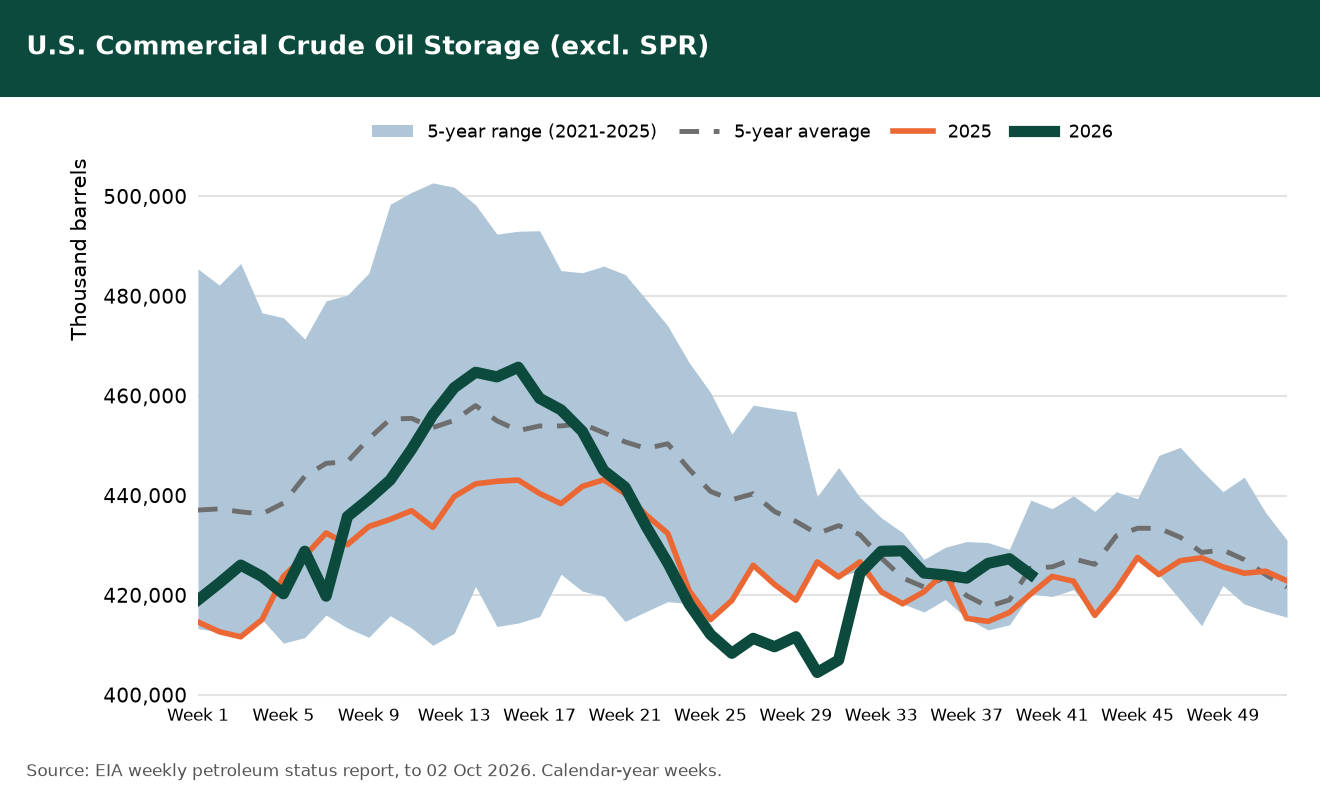
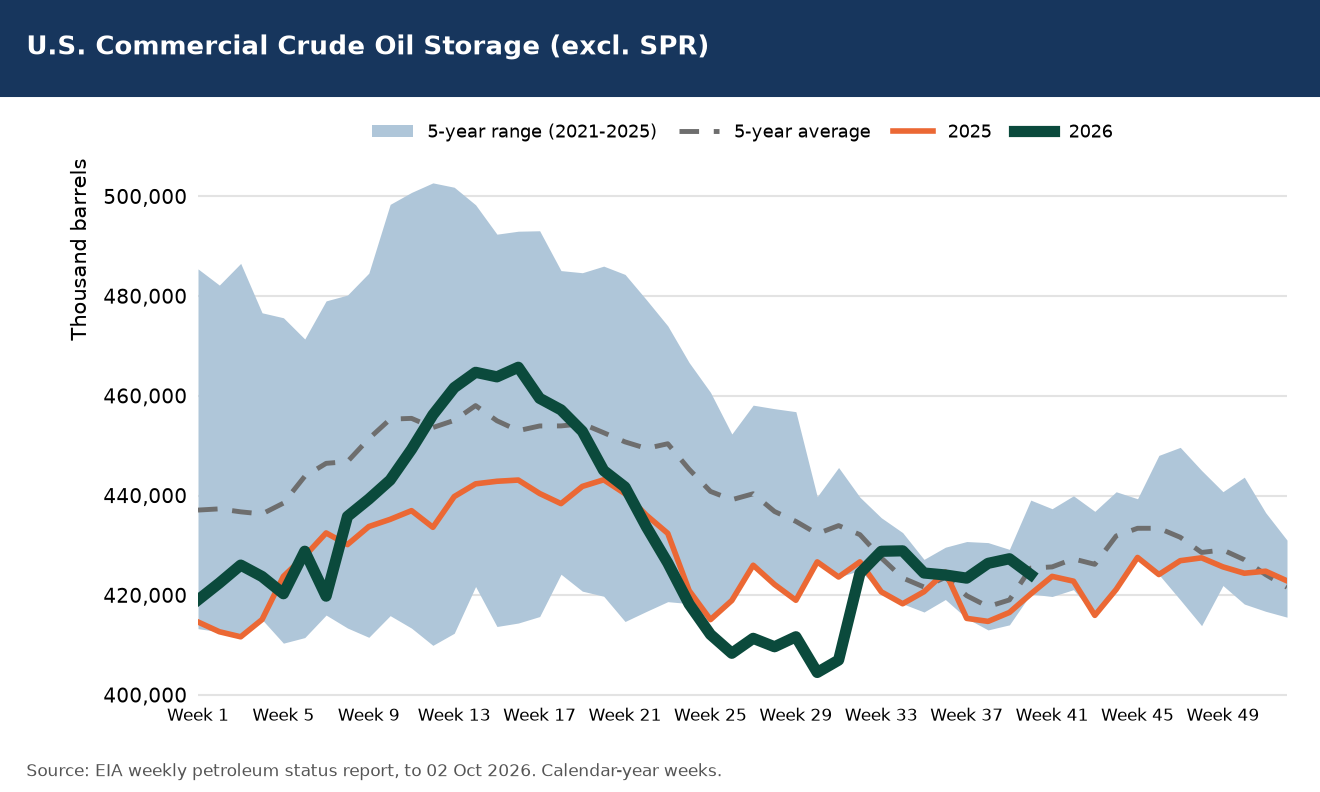
US stock charts: blue header instead of green (--png-only redraw option)
Claude-Session: https://claude.ai/code/session_017JZ6NtiEGTPcCx8fG8R1Sb

Changed region(s): [[0.0, 0.0, 1.0, 0.1212]]

diff --git a/americas/EIA_BIG_FOUR_STORAGE.py b/americas/EIA_BIG_FOUR_STORAGE.py
@@ -181,7 +181,7 @@ def draw_png(series, title, path):
     ax.set_xlim(1, 52)
     ax.set_ylabel("Thousand barrels", fontsize=7, loc="top")
     ax.legend(frameon=False, fontsize=6, ncol=4, loc="lower center", bbox_to_anchor=(0.5, 1.0), columnspacing=1.2, handlelength=2.2)
-    fig.patches.append(matplotlib.patches.Rectangle((0, 0.88), 1, 0.12, transform=fig.transFigure, color="#0B4A3C", zorder=0))
+    fig.patches.append(matplotlib.patches.Rectangle((0, 0.88), 1, 0.12, transform=fig.transFigure, color="#17365D", zorder=0))
     fig.text(0.02, 0.94, title, color="white", fontsize=8.5, fontweight="bold", va="center")
     fig.text(0.02, 0.02, f"Source: EIA weekly petroleum status report, to {pd.Timestamp(meta['last']):%d %b %Y}. Calendar-year weeks.", fontsize=5.5, color="#555")
     os.makedirs(os.path.dirname(path), exist_ok=True)
@@ -194,7 +194,14 @@ def main():
     ap.add_argument("--out", default=DEFAULT_OUT)
     ap.add_argument("--png-dir", default=DEFAULT_PNG)
     ap.add_argument("--synthetic", action="store_true", help="fake data, for testing the charts only")
+    ap.add_argument("--png-only", action="store_true", help="redraw the PNGs from the saved workbook (no download, workbook untouched)")
     a = ap.parse_args()
+    if a.png_only:
+        full = add_totals(load_archive(a.out).dropna(subset=list(SERIES)))
+        for key, (label, png, title) in CHARTS.items():
+            draw_png(full[key], title, os.path.join(a.png_dir, png))
+        print(f"Redrew {len(CHARTS)} PNGs from {a.out} (to {full.index.max().date()})", file=sys.stderr)
+        return
 
     if a.synthetic:
         new, source = synthetic(), "synthetic (TEST ONLY)"

diff --git a/output/Python Scripts/EIA_BIG_FOUR_STORAGE.py b/output/Python Scripts/EIA_BIG_FOUR_STORAGE.py
@@ -181,7 +181,7 @@ def draw_png(series, title, path):
     ax.set_xlim(1, 52)
     ax.set_ylabel("Thousand barrels", fontsize=7, loc="top")
     ax.legend(frameon=False, fontsize=6, ncol=4, loc="lower center", bbox_to_anchor=(0.5, 1.0), columnspacing=1.2, handlelength=2.2)
-    fig.patches.append(matplotlib.patches.Rectangle((0, 0.88), 1, 0.12, transform=fig.transFigure, color="#0B4A3C", zorder=0))
+    fig.patches.append(matplotlib.patches.Rectangle((0, 0.88), 1, 0.12, transform=fig.transFigure, color="#17365D", zorder=0))
     fig.text(0.02, 0.94, title, color="white", fontsize=8.5, fontweight="bold", va="center")
     fig.text(0.02, 0.02, f"Source: EIA weekly petroleum status report, to {pd.Timestamp(meta['last']):%d %b %Y}. Calendar-year weeks.", fontsize=5.5, color="#555")
     os.makedirs(os.path.dirname(path), exist_ok=True)
@@ -194,7 +194,14 @@ def main():
     ap.add_argument("--out", default=DEFAULT_OUT)
     ap.add_argument("--png-dir", default=DEFAULT_PNG)
     ap.add_argument("--synthetic", action="store_true", help="fake data, for testing the charts only")
+    ap.add_argument("--png-only", action="store_true", help="redraw the PNGs from the saved workbook (no download, workbook untouched)")
     a = ap.parse_args()
+    if a.png_only:
+        full = add_totals(load_archive(a.out).dropna(subset=list(SERIES)))
+        for key, (label, png, title) in CHARTS.items():
+            draw_png(full[key], title, os.path.join(a.png_dir, png))
+        print(f"Redrew {len(CHARTS)} PNGs from {a.out} (to {full.index.max().date()})", file=sys.stderr)
+        return
 
     if a.synthetic:
         new, source = synthetic(), "synthetic (TEST ONLY)"
